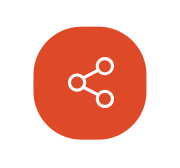
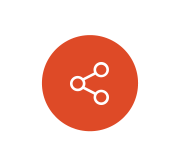
bugs & fixes

Changed region(s): [[0.1667, 0.1488, 0.8333, 0.8333], [0.3611, 0.3274, 0.6389, 0.6548]]

diff --git a/components/sections/ServicesSectionV2.tsx b/components/sections/ServicesSectionV2.tsx
@@ -48,9 +48,9 @@ const services: Service[] = [
     gradientFrom: "#c4f875",
     gradientTo: "#73983fff",
     floatingIcons: [
-      "/services/design/icon-01.png",
       "/services/design/icon-02.png",
       "/services/design/icon-03.png",
+      "/services/design/icon-01.png",
     ],
   },
   {
@@ -117,7 +117,7 @@ export function ServicesSectionV2() {
               service={service}
               index={index}
               noImageHoverScale
-              className="w-full flex-none md:w-[calc(45%-0.75rem)] md:grow md:hover:grow-[8] md:transition-all md:duration-700 md:ease-in-out"
+              className="w-full md:w-[calc(40%-0.75rem)] md:grow md:hover:grow-[16] md:transition-all md:duration-700 md:ease-in-out"
             />
           ))}
         </motion.div>

diff --git a/components/sections/ClientsSection.tsx b/components/sections/ClientsSection.tsx
@@ -66,7 +66,7 @@ export function ClientsSection() {
             <motion.div
               key={client.name}
               variants={itemVariants}
-              className="flex items-center justify-center border rounded-sm border-black hover:border-white hover:rounded-xl  hover:shadow-[0_0_24px_-8px_rgba(255,255,255,1)] transition-all duration-300 ease-in-out"
+              className="p-2 px-4 flex items-center justify-center border rounded-sm border-black hover:border-white hover:rounded-xl hover:shadow-[0_0_24px_-8px_rgba(255,255,255,1)] transition-all duration-300 ease-in-out"
             >
               <Image
                 src={client.image}